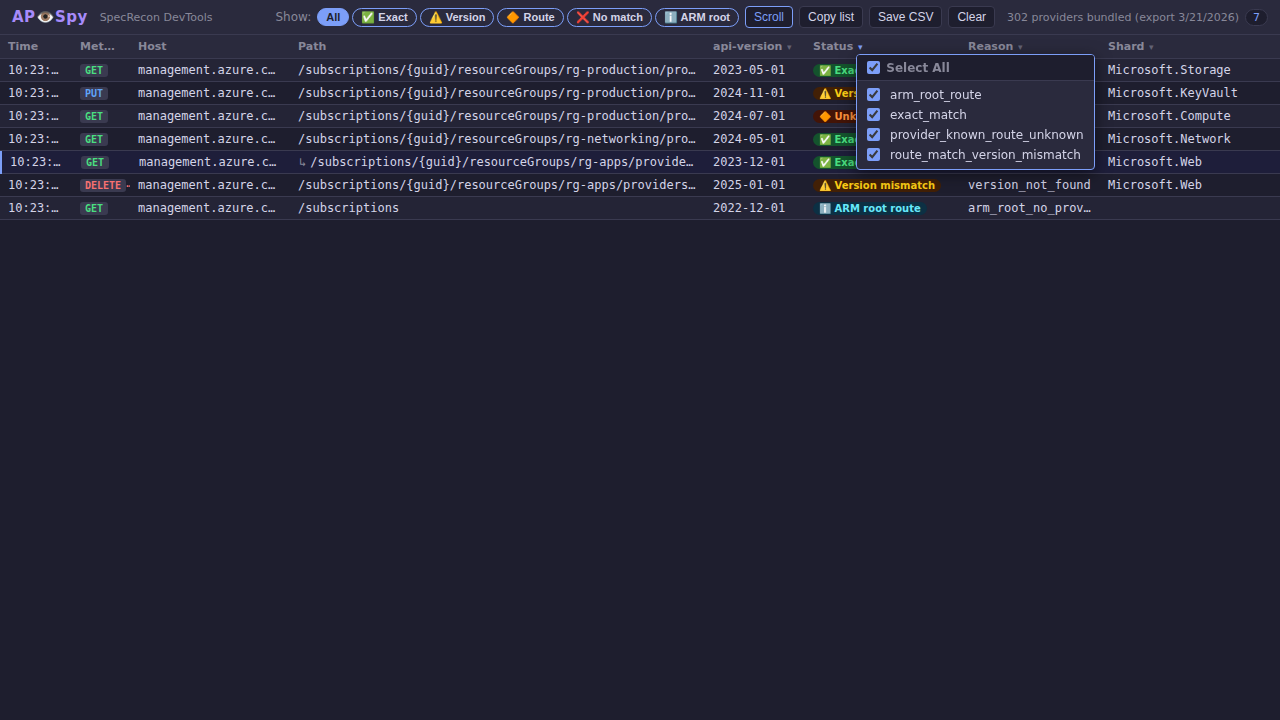
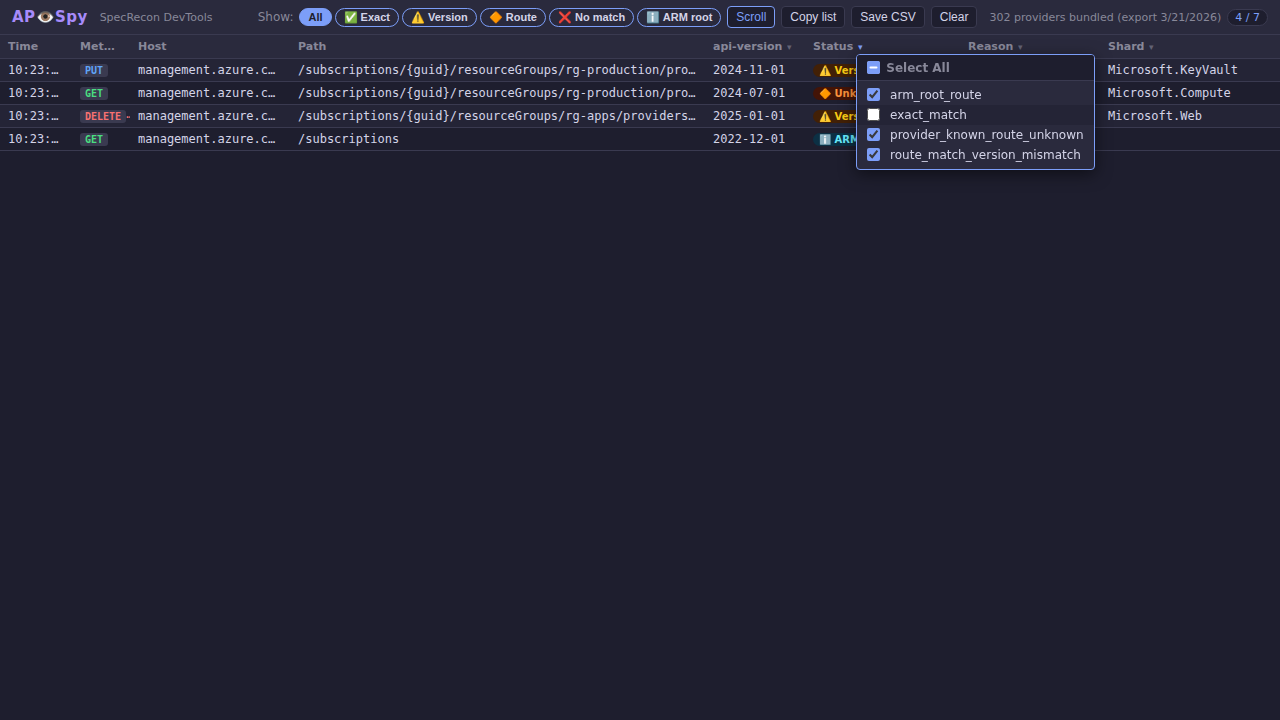
Improve apispy-filter.png: uncheck exact_match to show active filtering effect
Agent-Logs-Url: https://github.com/SpecRecon/SpecRecon/sessions/db252b94-d233-4894-8d45-a557b7299731

diff --git a/apispy/scripts/generate_screenshots.py b/apispy/scripts/generate_screenshots.py
@@ -347,15 +347,32 @@ def _generate(port: int) -> None:
         print(f"  \u2713 {out}")
 
         # ── Screenshot 3: column-filter dropdown ────────────────────────────
-        # Open the Status column filter to show the multi-value dropdown UI.
+        # Open the Status column filter, then uncheck "exact_match" so that
+        # exact-match rows are filtered out.  This demonstrates both the
+        # dropdown UI and the live filtering effect (row count drops).
         status_btn = page.query_selector('.col-filter-btn[data-col="status"]')
         if status_btn:
             status_btn.click()
             page.wait_for_timeout(300)
+            # Uncheck the exact_match checkbox so those rows disappear.
+            exact_cb = page.query_selector(
+                '#col-filter-list input[type="checkbox"][value="exact_match"]'
+            )
+            if exact_cb:
+                exact_cb.click()
+                page.wait_for_timeout(300)
 
         out = str(DEMOS_DIR / "apispy-filter.png")
         page.screenshot(path=out)
         print(f"  \u2713 {out}")
+
+        # Re-enable exact_match before closing so the detail screenshot has all rows.
+        exact_cb = page.query_selector(
+            '#col-filter-list input[type="checkbox"][value="exact_match"]'
+        )
+        if exact_cb:
+            exact_cb.click()
+            page.wait_for_timeout(200)
 
         # Close the dropdown before selecting a row.
         page.keyboard.press("Escape")
